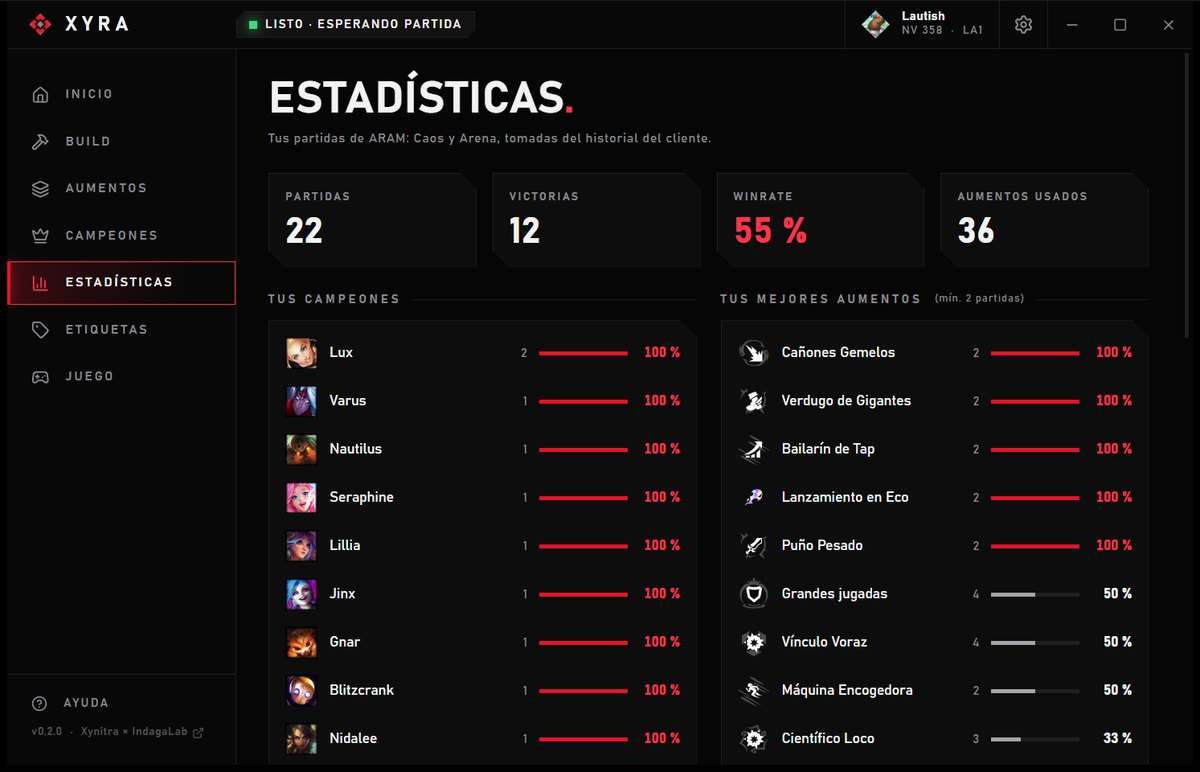
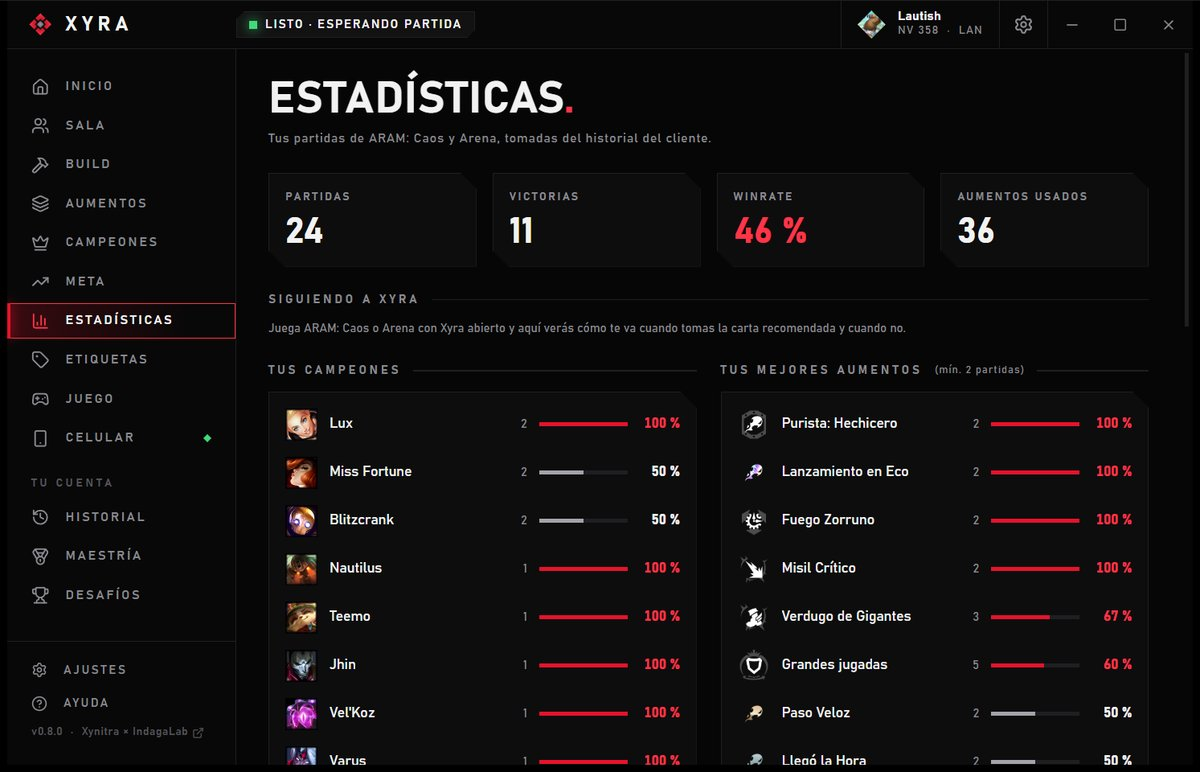
docs: the 0.9.0 news, lobby and stats screenshots, semantic versions and the site on xyra-app.pages.dev with the last three versions

diff --git a/docs/index.html b/docs/index.html
@@ -15,7 +15,7 @@
       property="og:description"
       content="Builds que se ponen solas, counters y la mejor carta de aumento en vivo. Para normales, clasificatorias, ARAM y ARAM: Caos. Gratis y de código abierto."
     />
-    <meta property="og:image" content="https://xyra-14q.pages.dev/banner.png" />
+    <meta property="og:image" content="https://xyra-app.pages.dev/banner.png" />
     <meta name="twitter:card" content="summary_large_image" />
     <link rel="icon" href="logo/xyra-08d-nucleo-grande-rojo.svg" type="image/svg+xml" />
     <style>
@@ -1109,8 +1109,8 @@
               <svg viewBox="0 0 24 24" fill="none" stroke="currentColor" stroke-width="2" aria-hidden="true"><path d="m4 12 5 5L20 6" /></svg>
               <h3>En tu celular</h3>
               <p>
-                Te avisa cuando encuentras partida, aunque tengas la app cerrada, y la aceptas desde el aviso. También sigues la selección, importas la build y
-                ves el meta. Se conecta con un QR.
+                Te avisa cuando encuentras partida, aunque tengas la app cerrada, y la aceptas desde el aviso. También creas la sala, invitas a tus amigos,
+                sigues la selección, importas la build y ves tu KDA en vivo. Se conecta con un QR.
               </p>
             </article>
             <article class="card cut">
@@ -1288,6 +1288,12 @@
             </figure>
             <figure>
               <button type="button">
+                <img class="shot cut" src="screenshots/lobby.jpg" width="1200" height="772" alt="Sala de Xyra con los amigos conectados" loading="lazy" />
+              </button>
+              <figcaption><b>Sala:</b> crea la sala, invita a tus amigos y busca partida.</figcaption>
+            </figure>
+            <figure>
+              <button type="button">
                 <img class="shot cut" src="screenshots/build.jpg" width="1200" height="772" alt="Pantalla de build de Xyra" loading="lazy" />
               </button>
               <figcaption><b>Build:</b> runas, hechizos, ítems y habilidades, listos para importar.</figcaption>
@@ -1421,6 +1427,15 @@
               <h3>Versiones</h3>
               <ol class="timeline">
                 <li>
+                  <b>0.9.0</b>
+                  <ul>
+                    <li>Sala: crea una sala, invita a tus amigos y busca partida desde la PC o el celular.</li>
+                    <li>Tu KDA, farm, oro y nivel en vivo, también en el celular.</li>
+                    <li>Siguiendo a Xyra: cómo te va cuando tomas la carta recomendada.</li>
+                    <li>Avisos en el celular cuando carga tu partida y cuando sale un parche.</li>
+                  </ul>
+                </li>
+                <li>
                   <b>0.8.0</b>
                   <ul>
                     <li>Aviso de nueva versión en la PC y en el celular, con lo que trae y un botón para actualizar o dejarlo para después.</li>
@@ -1437,42 +1452,11 @@
                     <li>Mejor conexión con el cliente al iniciar sesión.</li>
                   </ul>
                 </li>
-                <li>
-                  <b>0.6.0</b>
-                  <ul>
-                    <li>Tu celular suena como el LoL cuando encuentras partida, aunque tengas la app cerrada, y la aceptas o rechazas desde ahí.</li>
-                    <li>Tu build en la selección, desde el celular, con un botón para importarla toda.</li>
-                    <li>Buffs y nerfs del parche para tus campeones.</li>
-                    <li>Inicio por modos y botón para tomar de la banca.</li>
-                    <li>Historial de todos los modos, maestría y desafíos de tu cuenta.</li>
-                    <li>La app del celular se actualiza sola.</li>
-                  </ul>
-                </li>
-                <li>
-                  <b>0.5.0</b>
-                  <ul>
-                    <li>Ves en tu PC qué celulares están conectados, qué pueden hacer y los desconectas con un botón.</li>
-                    <li>La app se ve pareja en celulares pequeños y abre la build al instante.</li>
-                  </ul>
-                </li>
-                <li>
-                  <b>0.4.0</b>
-                  <ul>
-                    <li>Xyra para Android: acepta partidas, sigue la selección y tu build desde el celular.</li>
-                    <li>Pantalla Meta con los mejores del parche por posición.</li>
-                    <li>Consejos en partida: qué habilidad subir y tu siguiente ítem.</li>
-                  </ul>
-                </li>
-                <li>
-                  <b>0.3.0</b>
-                  <ul>
-                    <li>Runas, hechizos e ítems solos al elegir campeón.</li>
-                    <li>Recomendaciones por tier, maestría o lo que más juegas.</li>
-                    <li>Se actualiza con un botón, sin desinstalar.</li>
-                  </ul>
-                </li>
               </ol>
-              <p class="muted">Notas completas en <a href="https://github.com/DiegoFernandoLojanTenesaca/xyra/releases">GitHub</a>.</p>
+              <p class="muted">
+                Aquí van las tres últimas; todas las versiones y sus notas completas están en
+                <a href="https://github.com/DiegoFernandoLojanTenesaca/xyra/releases">GitHub</a>.
+              </p>
             </div>
             <div class="card cut soon">
               <h3>Lo que viene</h3>

diff --git a/README.md b/README.md
@@ -2,7 +2,7 @@
 
 <p align="center">
   <a href="https://github.com/DiegoFernandoLojanTenesaca/xyra/releases/latest"><img alt="Descargar" src="https://img.shields.io/github/v/release/DiegoFernandoLojanTenesaca/xyra?style=for-the-badge&label=descargar&color=e5132b"></a>
-  <a href="https://xyra-14q.pages.dev/"><img alt="Sitio web" src="https://img.shields.io/badge/web-xyra-131315?style=for-the-badge"></a>
+  <a href="https://xyra-app.pages.dev/"><img alt="Sitio web" src="https://img.shields.io/badge/web-xyra-131315?style=for-the-badge"></a>
   <img alt="Windows 10 y 11" src="https://img.shields.io/badge/Windows-10%20%7C%2011-131315?style=for-the-badge">
   <img alt="Android 7 o superior" src="https://img.shields.io/badge/Android-7%2B-131315?style=for-the-badge">
   <a href="LICENSE"><img alt="Licencia MIT" src="https://img.shields.io/github/license/DiegoFernandoLojanTenesaca/xyra?style=for-the-badge&color=1f1f22"></a>
@@ -16,7 +16,7 @@ Liviano, en español e inglés, y sin tocar el juego.</p>
 <p align="center">
   <a href="https://github.com/DiegoFernandoLojanTenesaca/xyra/releases/latest"><b>Descargar para Windows</b></a> ·
   <a href="https://github.com/DiegoFernandoLojanTenesaca/xyra/releases/latest"><b>Descargar la app para Android</b></a> ·
-  <a href="https://xyra-14q.pages.dev/"><b>Sitio web</b></a>
+  <a href="https://xyra-app.pages.dev/"><b>Sitio web</b></a>
 </p>
 
 <p align="center"><img src="docs/labels-preview.jpg" alt="Etiquetas de Xyra sobre las cartas de aumento en una partida de ARAM: Caos" width="92%"></p>
@@ -25,16 +25,18 @@ Liviano, en español e inglés, y sin tocar el juego.</p>
 
 ## Novedades
 
-**0.8.0**
+**0.9.0**
 
-- Cuando sale una versión nueva, la PC y el celular te muestran qué trae y la instalas con un botón o la dejas para
-  después.
-- Cada uno te recuerda actualizar también el otro, porque la PC y el celular van mejor con la misma versión.
-- La web marca la sección en la que estás y en el celular tiene su barra de secciones y un botón para volver arriba.
+- **Sala:** crea una sala, invita a tus amigos conectados y busca partida desde la PC o el celular.
+- Tu KDA, farm, oro y nivel en vivo mientras juegas, también en el celular.
+- **Siguiendo a Xyra:** cómo te va cuando tomas la carta recomendada y cuando no.
+- El celular te avisa cuando tu partida empieza a cargar y cuando sale un parche con cambios a tus campeones.
+- Tus partidas con cada campeón en Build y los hechizos que usaste en el Historial.
 
-**0.7.0:** tus opciones de la banca en la selección y etiquetas de cartas más firmes. **0.6.0:** aviso de partida en el
-celular con el sonido del LoL, Inicio por modos y buffs y nerfs del parche. **0.5.0:** celulares emparejados con
-permisos. Todas las notas en [Releases](../../releases).
+**0.8.0:** aviso de nueva versión en la PC y el celular. **0.7.0:** tus opciones de la banca en la selección.
+**0.6.0:** aviso de partida en el celular con el sonido del LoL. Todas las notas en [Releases](../../releases). Las
+versiones siguen el [versionado semántico](https://semver.org/lang/es/): el tercer número sube con arreglos, el segundo
+con funciones nuevas y la 1.0.0 será la primera versión estable.
 
 ## Así se ve
 
@@ -60,8 +62,8 @@ permisos. Todas las notas en [Releases](../../releases).
     <td><img src="docs/screenshots/game.jpg" alt="Juego"><br><b>Juego:</b> opciones oficiales del LoL y automatizaciones</td>
   </tr>
   <tr>
-    <td><img src="docs/screenshots/stats.jpg" alt="Estadísticas"><br><b>Estadísticas:</b> tu winrate y tus mejores aumentos</td>
-    <td></td>
+    <td><img src="docs/screenshots/stats.jpg" alt="Estadísticas"><br><b>Estadísticas:</b> tu winrate, tus mejores aumentos y si sigues a Xyra</td>
+    <td><img src="docs/screenshots/lobby.jpg" alt="Sala"><br><b>Sala:</b> crea la sala, invita a tus amigos y busca partida</td>
   </tr>
 </table>
 
@@ -105,8 +107,10 @@ se actualiza sola desde sus Ajustes.
   la build.
 - **Xyra para Android:** aviso de partida con la app cerrada, aceptar, selección, build, meta y ajustes desde el
   celular; cada celular con su propia llave y sus permisos, y se desconecta desde la PC.
-- **Tu cuenta:** historial de tus últimas partidas de todos los modos (KDA, oro, daño e ítems), la maestría de cada
-  campeón con lo que falta para subir y tus desafíos, con los que tienes a punto de subir.
+- **Sala:** crea una sala para cualquier modo, invita a tus amigos conectados y busca partida sin tocar el cliente,
+  también desde el celular.
+- **Tu cuenta:** historial de tus últimas partidas de todos los modos (KDA, oro, daño, hechizos e ítems), la
+  maestría de cada campeón con lo que falta para subir y tus desafíos, con los que tienes a punto de subir.
 - **Tus datos:** winrate por campeón, mejores aumentos, nivel, rango y maestrías, separados por cuenta; exportación a CSV.
 - **Liviano y al día:** vive en la bandeja del sistema, solo trabaja durante tus partidas y se actualiza con un botón.
 
@@ -190,6 +194,8 @@ lets you know when you find a match, even with the app closed. Lightweight, Span
 - **Champion select:** in ARAM, your options from the bench, best first, with a button to take any of them and every
   other champion below; in Summoner's Rift, every champion of your position and counters.
 - **Meta and patch:** Summoner's Rift, ARAM and Arena tier lists, and the patch buffs and nerfs from the official notes.
+- **Lobby:** open a lobby for any mode, invite your friends online and look for a match without touching the client,
+  from the phone too.
 - **Your account:** match history of every mode, champion mastery progress and challenges about to level up.
 - **Phone app:** match notification with the app closed, accept, builds, meta and settings over your own network.
 - **Safe:** screen reading, a native click-through overlay and the client's official APIs only; no memory access, no

diff --git a/CLAUDE.md b/CLAUDE.md
@@ -52,20 +52,27 @@ with augments, because nothing announces the cards; it stops as soon as the game
 
 ## Releases
 
+Versions follow Semantic Versioning, `MAJOR.MINOR.PATCH`: PATCH (0.9.1) only fixes bugs; MINOR (0.10.0) adds features
+and may carry fixes; MAJOR marks what users must know: 1.0.0 is the first version considered stable and complete, and
+later majors are for changes that break what players rely on, like pairing phones again or losing settings. Until
+1.0.0, a MINOR also covers those.
+
 `master` is the only long-lived branch and nothing runs on push. A release is a tag:
 
 1. Bump `version` in the root `Cargo.toml` (the app, the installer and the About screen read it from there).
 2. Replace `CHANGELOG.md` with the changes since the last release: plain past-tense bullets, no headers. Put the same
-   news in the README's "Novedades", the site's version timeline (`docs/index.html`, `#novedades`) and About's
-   `about:changes`, and retake the screenshots that changed (`docs/screenshots`, and the phone app's in `docs/app`).
+   news in the README's "Novedades", the site's version timeline (`docs/index.html`, `#novedades`, which keeps only the
+   last three versions) and About's `about:changes`, and retake the screenshots that changed (`docs/screenshots`, and
+   the phone app's in `docs/app`).
    `about:changes` is also what the update window of older apps shows: the PC (`updates::check`) and the phone
    (`mobile/src/lib/UpdateDialog.svelte`) read `locales/<language>/about.json` at the new tag, so write it before tagging.
 3. Bump `version` in `mobile/src-tauri/tauri.conf.json` and `mobile/src-tauri/Cargo.toml` to the same number.
 4. Commit, push, then `git tag 0.4.0 && git push origin 0.4.0`.
 5. Build the Android app and add it to the release: `gh release upload <version> xyra-android-<version>.apk`.
-6. Publish the site on Cloudflare Pages (project `xyra`, https://xyra-14q.pages.dev), which does not follow the repo:
-   `npx wrangler pages deploy docs --project-name xyra --branch master`, run outside the repo with an absolute path to
-   `docs`. GitHub Pages also serves `docs/` from `master` on its own.
+6. Publish the site on Cloudflare Pages (project `xyra-app`, https://xyra-app.pages.dev), which does not follow the
+   repo: `npx wrangler pages deploy docs --project-name xyra-app --branch master`, run outside the repo with an absolute
+   path to `docs`. The first address, https://xyra-14q.pages.dev (project `xyra`), only redirects there. GitHub Pages
+   also serves `docs/` from `master` on its own.
 
 `.github/workflows/release.yml` checks that the tag matches the version, runs every check below, builds the installer
 and publishes it as `xyra-<version>.exe` with `CHANGELOG.md` as the release notes.
